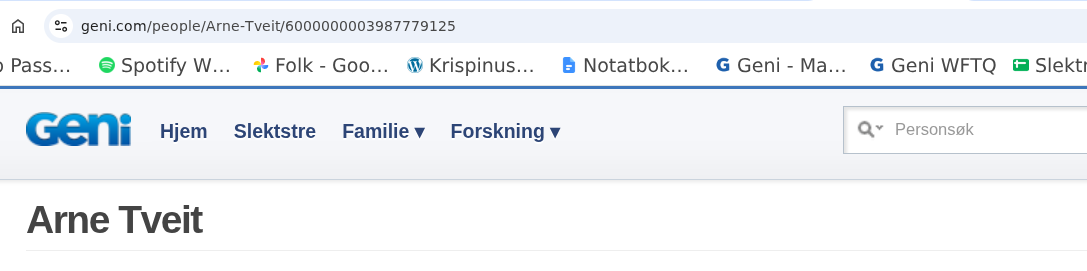
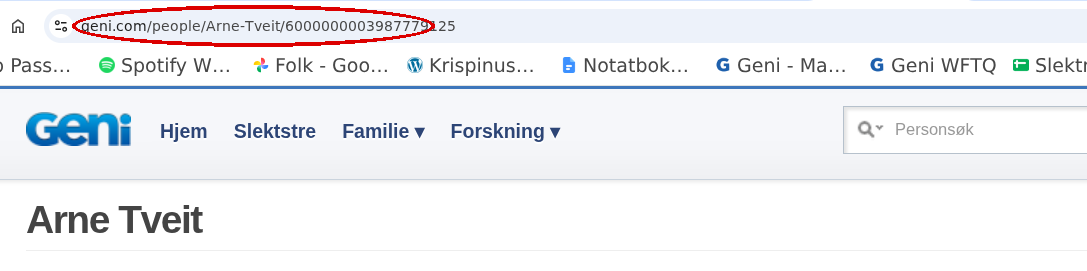
Improve group UI and getting-started guide

diff --git a/index.js b/index.js
@@ -35,6 +35,7 @@ async function saveDatabaseSnapshot() {
 }
 
 const errorMessageElement = document.getElementById('error-message');
+const loginToGeniButton = document.getElementById('login-to-geni');
 
 // True if the error message shown tells of a lasting state (install
 // error, login status) rather than the outcome of an operation.
@@ -43,11 +44,14 @@ let errorMessageLasting = false;
 function showErrorMessage(message, lasting = false) {
   errorMessageElement.innerText = message;
   errorMessageElement.hidden = false;
+  loginToGeniButton.hidden =
+    message !== 'Not logged in' && message !== 'Login failed';
   errorMessageLasting = lasting;
 }
 
 function hideErrorMessage() {
   errorMessageElement.hidden = true;
+  loginToGeniButton.hidden = true;
 }
 
 // Called when the user asks for a new operation: the error message
@@ -95,6 +99,7 @@ client.queueSizeView = (number, waiting) => {
     queueSizeElement.innerText =
       'Queue size: ' + number + (waiting ? ' waiting' : '');
   }
+  stopFetchingButton.hidden = number === 0;
   if (wasBusy && number === 0) {
     // Let the request's promise handlers store any returned profiles first.
     setTimeout(() => {
@@ -140,6 +145,7 @@ const groupSelectElement = document.getElementById('group-select');
 const groupNotesElement = document.getElementById('group-notes');
 const newGroupBox = document.getElementById('new-group-box');
 const newGroupNameElement = document.getElementById('new-group-name');
+const newGroupButton = document.getElementById('new-group');
 const newGroupCreateButton = document.getElementById('new-group-create');
 const newGroupCancelButton = document.getElementById('new-group-cancel');
 const saveGroupButton = document.getElementById('save-group');
@@ -170,8 +176,6 @@ const initialsOnlyElement = document.getElementById('initials-only');
 const groupStore = new GroupStore(localStorage);
 // Name of the group currently being worked on.
 let currentGroup = '';
-// The "New group..." entry at the end of the group dropdown.
-let newGroupOption;
 
 // Fill the group dropdown with all stored groups, plus the current
 // group even if it hasn't been saved, and select the current group.
@@ -183,9 +187,6 @@ function displayGroupSelect() {
     option.textContent = name === '' ? '(unnamed)' : name;
     groupSelectElement.append(option);
   });
-  newGroupOption = document.createElement('option');
-  newGroupOption.textContent = 'New group\u2026';
-  groupSelectElement.append(newGroupOption);
   groupSelectElement.value = currentGroup;
 }
 
@@ -197,8 +198,8 @@ function selectGroup(name) {
   loadProfileList();
 }
 
-// Leave the "New group..." state without reloading the current group,
-// so that unsaved profiles are kept.
+// Cancel group creation without reloading the current group, so unsaved
+// profiles are kept.
 function cancelNewGroup() {
   newGroupBox.hidden = true;
   groupSelectElement.value = currentGroup;
@@ -866,7 +867,7 @@ function displayAncestorGroups() {
       const memberList = document.createElement('ul');
       entry.members.forEach((member) => {
         const item = document.createElement('li');
-        item.textContent = member.name() ?? '';
+        item.textContent = displayName(member);
         memberList.append(item);
       });
       section.append(memberList);
@@ -900,7 +901,7 @@ function displayAncestorGroups() {
       const pathList = document.createElement('ul');
       entry.members.forEach((member, index) => {
         const item = document.createElement('li');
-        item.append(document.createTextNode(member.name() ?? ''));
+        item.append(document.createTextNode(displayName(member)));
         const paths = pathsByMember[index];
         if (paths.length === 0) {
           item.append(' — path unavailable');
@@ -1064,13 +1065,15 @@ async function importFromFile(file) {
 // Binding actions to buttons ======================================
 
 groupSelectElement.addEventListener('change', async () => {
-  if (groupSelectElement.selectedOptions[0] === newGroupOption) {
-    newGroupNameElement.value = '';
-    newGroupBox.hidden = false;
-    newGroupNameElement.focus();
-  } else {
-    startUserOperation();
-    await switchToGroup(groupSelectElement.value);
+  startUserOperation();
+  await switchToGroup(groupSelectElement.value);
+});
+
+loginToGeniButton.addEventListener('click', async () => {
+  try {
+    await connectToGeni();
+  } catch (error) {
+    console.log('Login failed', error);
   }
 });
 
@@ -1081,6 +1084,12 @@ groupNotesElement.addEventListener('input', () => {
 newGroupCreateButton.addEventListener('click', () => {
   startUserOperation();
   createNewGroup();
+});
+
+newGroupButton.addEventListener('click', () => {
+  newGroupNameElement.value = '';
+  newGroupBox.hidden = false;
+  newGroupNameElement.focus();
 });
 
 newGroupNameElement.addEventListener('keydown', (event) => {

diff --git a/doc/index.html b/doc/index.html
@@ -11,6 +11,8 @@
       margin: 0 0 0.75em 1.5em;
     }
     p { display: flow-root; }
+    .example-with-image { display: flow-root; }
+    .example-with-image p { display: block; }
     @media (max-width: 600px) {
       img.illustration {
         float: none;
@@ -53,32 +55,62 @@
       matches. This may involve searching, or even finding an ancestor
       somewhere in the tree and entering the tree from MyHeritage down to
       the match. In the end you have a profile, and the profile has an URL,
-      as seen in the top of the image.
+      as seen in the top of the image. You can also enter the profile's GUID.
     </p>
     <h2>Using ACAC to figure out the common ancestors</h2>
-    <img class="illustration" src="acac-sample-group.png" width="60%">
+    <div class="example-with-image">
+      <img
+        class="illustration"
+        src="acac-result.png"
+        width="60%"
+        alt="ACAC showing common ancestors and group members without paths"
+      >
+      <p>
+        Now go to <a href="https://acac.alvestrand.no/">ACAC</a> and choose
+        the DNA match group you're working on in the "Group" menu, or create
+        one using the "New group" button. The name should be something you
+        associate with the group, for instance
+        "Harald chr 3 pos 31 mother's side".
+      </p>
+      <p>
+        Then copy the URL found above, or enter the profile's GUID, in the
+        "Add profile" field. ACAC will then (after asking permission) search
+        Geni for the ancestors of that profile. And if we're lucky, we'll end
+        up with a display like these examples, showing ancestors for this
+        particular segment.
+      </p>
+      <p>
+        The profiles you're considering appear below the "Add profile" field,
+        and the groups with their common ancestors appear to the right. As you
+        add profiles, those groups may change and their common ancestor lists
+        may shrink. The aim is for the groups to converge on a single set of
+        ancestors that could be the source for that segment.
+      </p>
+      <p>
+        This means that all the people entered descend from those parents,
+        and one of them (we don't know which) is likely the ancestor for that
+        particular segment. All the links open the profile in a new window.
+      </p>
+      <p>
+        With "Display path" unchecked, ACAC shows the potential common
+        ancestors followed by the profiles in the group.
+      </p>
+    </div>
     <p>
-      Now go to <a href="https://acac.alvestrand.no/">ACAC</a> and
-      create a group using the "New group" function in the pulldown.
-      The name should be something you associate with the group somehow,
-      for instance "Harald chr 3 pos 31 mother's side".
-    </p>
-    <p>
-      Then copy the URL found above into the "Add profile" field.
-      ACAC will then (after asking permission) search Geni for the ancestors
-      of that profile. And if we're lucky, we'll end up with a display like
-      the one in the illustration, showing a set of ancestors for this particular segment.
-    </p>
-    <p>
-      This means that all the people entered descend from those parents,
-      and one of them (we don't know which) is likely the ancestor for
-      that particular segment.
-      All the links open the profile in a new window.
+      <img
+        class="illustration"
+        src="acac-result-expanded.png"
+        width="60%"
+        alt="ACAC showing paths from group members to common ancestors"
+      >
+      Check "Display path" to show all known paths from each profile to each
+      potential common ancestor. Different ancestors can have different paths.
     </p>
     <p>
       Hit the "save database" button to save your work so far in the browser,
       or use "save to file" to save the database to a file. Filenames are
-      automatically generated.
+      automatically generated. The database and saved groups are kept in
+      browser storage and should be available after restarting the browser.
     </p>
     <p>
       You can also use "Save group" to save the information gathered for

diff --git a/index.html b/index.html
@@ -11,26 +11,10 @@
   </div>
   <h1>All Common Ancestors Considered</h1>
   <div id="error-message" hidden></div>
-  <p>
-  To use this page:<br/>
-  Choose the DNA match group you're working on in the "Group" menu, or pick
-  "New group&hellip;" to create one.
-  Enter an URL or a GUID of a Geni profile in the "add" box.
-  <p>
-    The list of currently considered profiles will appear below the "add" box.
-    To the right, there will be a list of groups, each of which shares a set
-    of common ancestors.
-    <br/>
-    As you add profiles, the groups on the right may change, and
-    their lists of common ancestors may shrink.
-    <br/>
-    The hope is that as you add more matching profiles, the groups will
-    converge on a single set of ancestors that can be taken as "the source
-    for that segment".
-    <br/>
-    The data is stored in "local storage" in your browser, so it should be
-    recoverable after exiting the browser and restarting.
-  </p>
+  <button id="login-to-geni" hidden>Login to Geni</button>
+  <div id="documentation-link">
+    <strong><a href="doc/index.html">Documentation</a></strong>
+  </div>
   <button id="save-database">Save database</button>
   <button id="export-file">Save to file</button>
   <button id="import-file">Load from file</button>
@@ -51,22 +35,30 @@
   </label>
   <br/>
   <span id="queue-size">Queue empty</span>
-  <button id="stop-fetching">Stop fetching</button>
+  <button id="stop-fetching" hidden>Stop fetching</button>
   <table id="layout">
     <tr>
       <td colspan="2">
         <table class="group-controls">
           <tr>
             <td class="group-actions">
-              <p>
-                Group:<select id="group-select"></select>
-                <span id="new-group-box" hidden>
-                  Name:<input type="text" id="new-group-name">
-                  <button id="new-group-create">Create</button>
-                  <button id="new-group-cancel">Cancel</button>
-                </span>
+              <h2 class="group-heading">
+                <label for="group-select">Group:</label>
+                <select id="group-select"></select>
+              </h2>
+              <div id="group-action-buttons">
+                <button id="new-group">New group</button>
                 <button id="save-group">Save group</button>
                 <button id="load-group">Load group</button>
+              </div>
+              <div id="new-group-box" hidden>
+                <label>
+                  Name:<input type="text" id="new-group-name">
+                </label>
+                <button id="new-group-create">Create</button>
+                <button id="new-group-cancel">Cancel</button>
+              </div>
+              <p>
                 <input type="file" id="load-group-input" accept=".json,application/json" hidden>
                 <span id="group-file-message"></span>
               </p>
@@ -100,7 +92,9 @@
         <h2>Person groups and common ancestors</h2>
         <p>
           Grouping:<select id="algorithm-select"></select>
-          <label><input type="checkbox" id="display-path"> Display path</label>
+          <label id="display-path-label">
+            <input type="checkbox" id="display-path"> Display path
+          </label>
         </p>
         <div id="group-list">
         </div>

diff --git a/index.css b/index.css
@@ -43,6 +43,22 @@ tr.excluded {
   width: 70%;
 }
 
+.group-heading {
+  margin: 0.4em 0 0.3em;
+}
+
+.group-heading select {
+  font-size: 0.7em;
+}
+
+#group-action-buttons {
+  margin-top: 0.5em;
+}
+
+#display-path-label {
+  white-space: nowrap;
+}
+
 .group-actions p {
   margin-top: 0;
 }
@@ -102,4 +118,10 @@ tr.excluded {
   padding: 0.25em 0.5em;
   border: 1px solid black;
   background: white;
+}
+
+#documentation-link {
+  position: fixed;
+  top: 2.5em;
+  right: 0.5em;
 }
